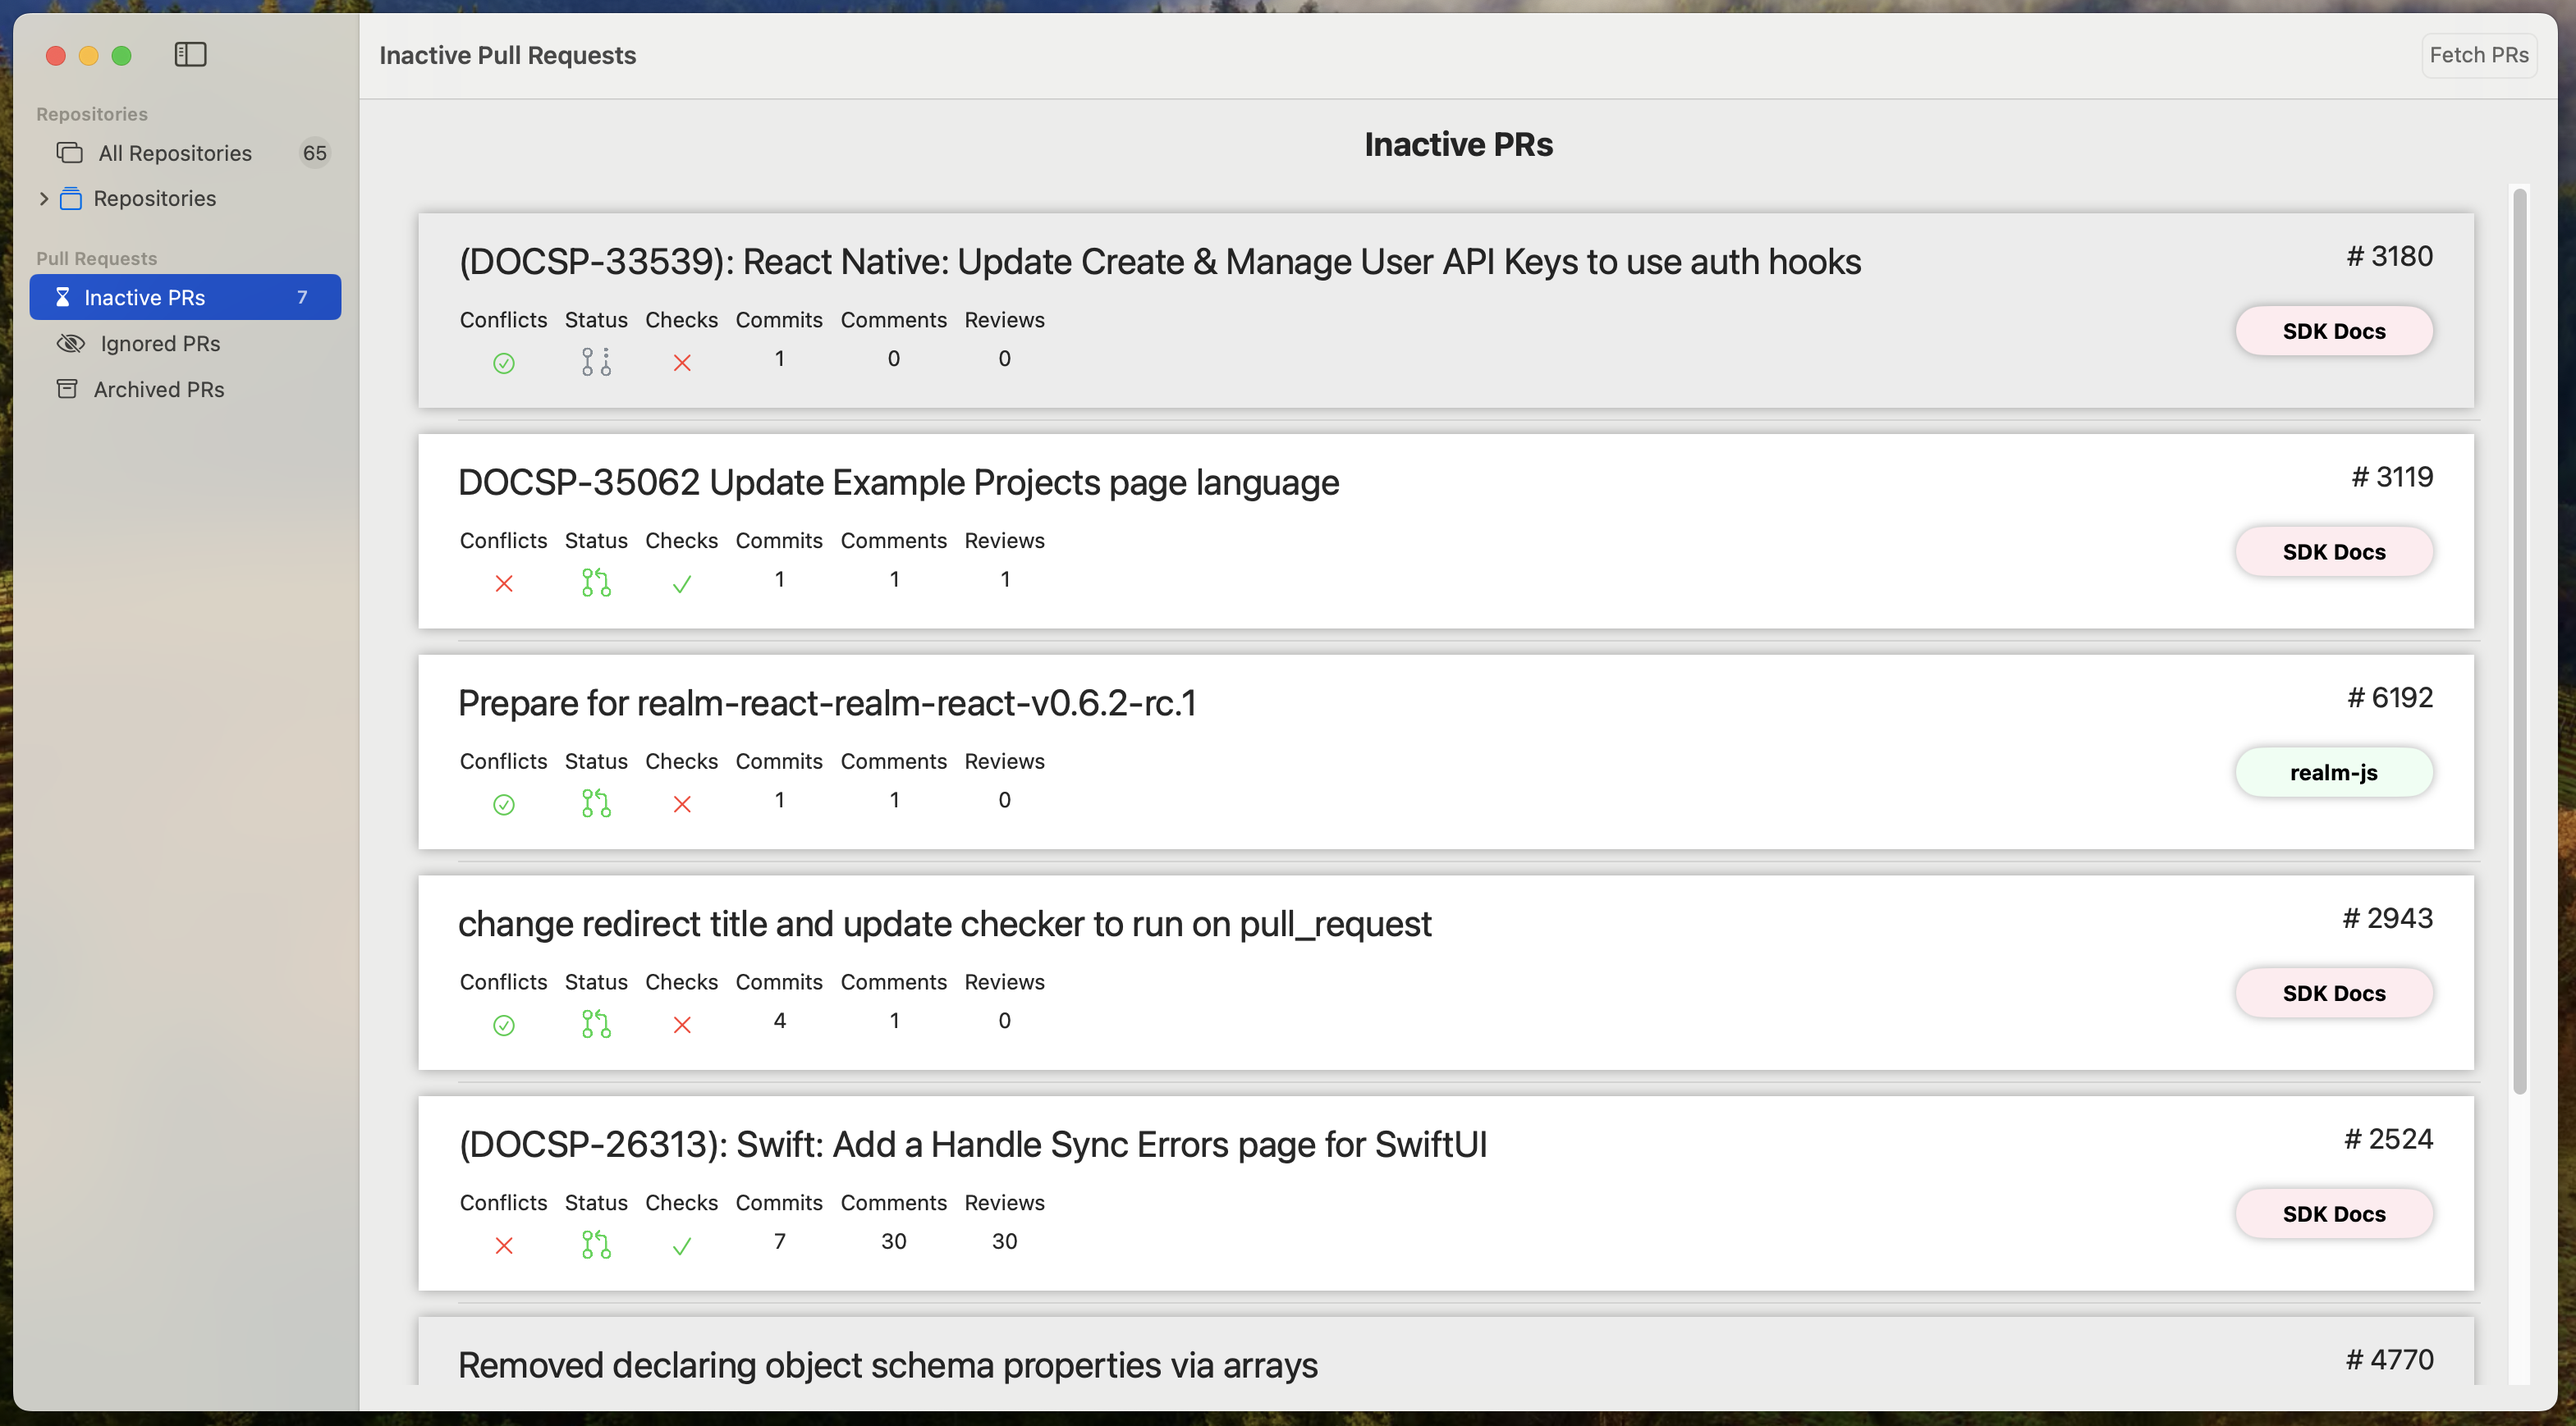
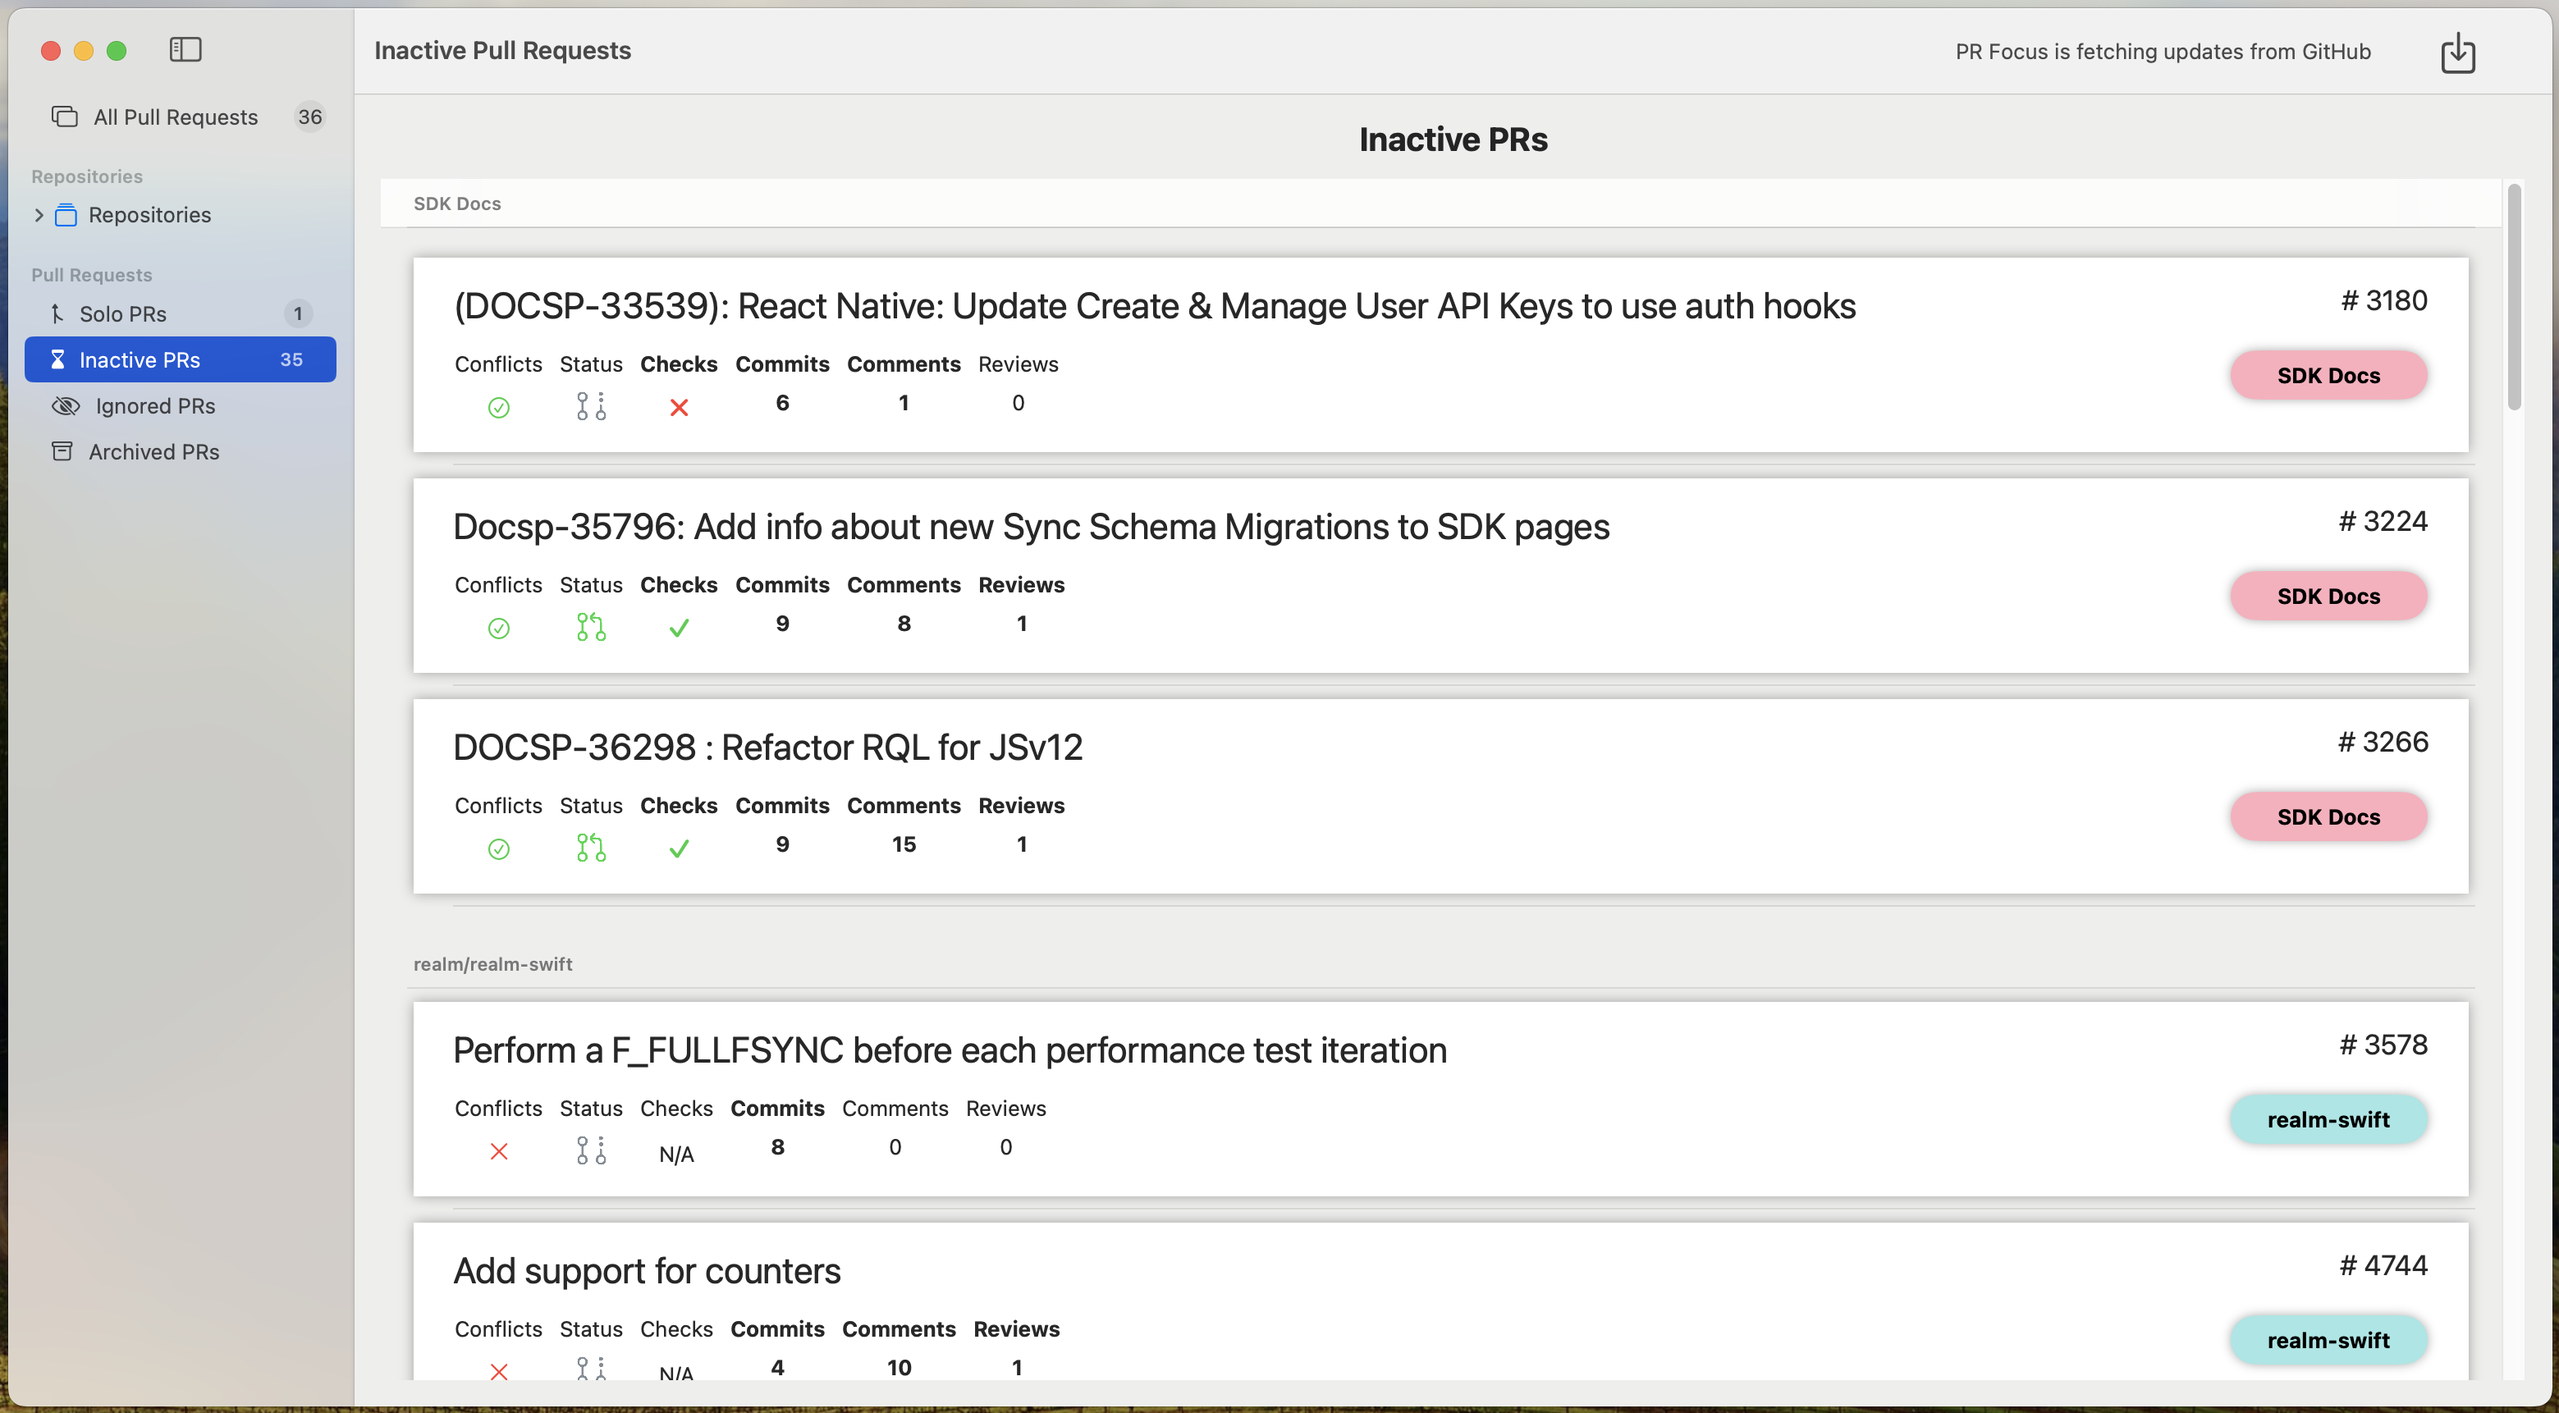
Update UI and aggregate dashboard name

Changed region(s): [[0.0, 0.0, 1.0, 1.0], [0.0, 0.4001, 0.0311, 0.7079], [0.0, 0.7695, 0.0311, 0.8926]]

diff --git a/content/en/docs/pull-requests/inactive-prs.md b/content/en/docs/pull-requests/inactive-prs.md
@@ -13,13 +13,13 @@ Sometimes, a PR sits for a long time without progress. This may be because:
 - For business reasons, work on the PR is paused
 - Many other reasons
 
-In these cases, you may still care about the eventual outcome of the PR, but it becomes clutter sitting around in your regular repository dashboards while no activity is occurring. You may not want to **Stop Watching** or **Ignore** a PR, but may want to get it out of your way.
+In these cases, you may still care about the eventual outcome of the PR, but it becomes clutter sitting around in your regular PR Focus dashboards while no activity is occurring. You may not want to **Stop Watching** or **Ignore** a PR, but may want to get it out of your way.
 
 This is the case that **Inactive PRs** solves.
 
 ## Inactive PRs Dashboard
 
-After some interval, a PR that hasn't had updates moves to the **Inactive PRs** Dashboard. This dashboard is a list of PRs that have become inactive.
+After some interval, a PR that hasn't had updates moves to the **Inactive PRs** Dashboard. This dashboard is a list of PRs that have become inactive, sorted by the repository where they originated.
 
 ![Screenshot showing the Inactive PRs Dashboard with a list of full-width PR Summary rows](/images/inactive-prs.png)
 
@@ -35,15 +35,15 @@ The only other way a PR can move out of these columns is when it becomes archive
 
 You can configure the *Days until inactive* setting from:
 
-- [Global Default Settings]({{< ref "docs/settings/_index.md" >}})
+- [App Settings]({{< ref "docs/settings/_index.md" >}})
 - [Repository Settings]({{< ref "docs/repositories/manage-repository.md" >}})
 
-Unless you have customized either the global or the repository setting for days until inactive, the default value for this setting is 30 days.
+The default value for this setting is 30 days.
 
 ### Moving a PR Out of Inactive PRs
 
-There is no way to manually move a PR out of the **Inactive PRs** dashboard and back into your Repository Dashboard and All Repositories Dashboard. 
+There is no way to manually move a PR out of the **Inactive PRs** dashboard and back into your Repository Dashboard and **All Pull Requests** Dashboard. 
 
-When a PR receives updates again, it moves out of the **Inactive PRs** dashboard and back into your Repository Dashboard and All Repositories Dashboard.
+When a PR receives updates again, it moves out of the **Inactive PRs** dashboard and back into your Repository Dashboard and **All Pull Requests** Dashboard.
 
-If you change the value of the `Days until inactive` setting to a longer time interval, PR Focus recalculates whether PRs should be inactive and moves any PRs that no longer meet this setting. In this case, PR Focus moves inactive PRs back into your Repository Dashboard and All Repositories Dashboard.
+If you change the value of the `Days until inactive` setting to a longer time interval, PR Focus recalculates whether PRs should be inactive and moves any PRs that no longer meet this setting. In this case, PR Focus moves inactive PRs back into your Repository Dashboard and **All Pull Requests** Dashboard.
